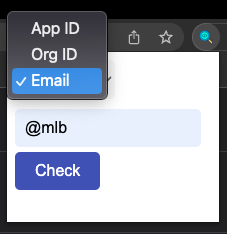
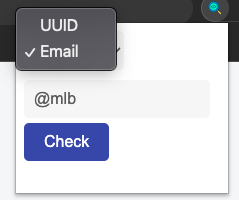
Updated to include new super user link / Fixed references and ReadMe for new link

diff --git a/src/background.js b/src/background.js
@@ -7,12 +7,7 @@ chrome.runtime.onInstalled.addListener(() => {
   console.log("Extension Installed");
   chrome.contextMenus.create({
     id: MENU.APP_AND_EMAIL,
-    title: 'OS App/Email "%s"',
-    contexts: ["selection"],
-  });
-  chrome.contextMenus.create({
-    id: MENU.ORG,
-    title: 'OS Org "%s"',
+    title: 'Search OS For "%s"',
     contexts: ["selection"],
   });
 });
@@ -26,8 +21,7 @@ chrome.contextMenus.onClicked.addListener((info, tab) => {
   const email_re = /@.{1,}/; //Anything with an @ sign and characters after;
   //BASE URLS
   const emailURL = "https://dashboard.onesignal.com/super-user?email=";
-  const uuidURL = "https://dashboard.onesignal.com/apps/";
-  const orgURL = "https://dashboard.onesignal.com/organizations/";
+  const uuidURL = "https://dashboard.onesignal.com/super-user/identify?search=";
   //VALIDATE REGEX WITH SELECTIONS (org and app are both uuid)
   const uuid_ok = uuid_re.exec(info.selectionText);
   const email_ok = email_re.exec(info.selectionText);
@@ -36,7 +30,7 @@ chrome.contextMenus.onClicked.addListener((info, tab) => {
   if (info.menuItemId === MENU.APP_AND_EMAIL) {
     console.log("start if");
     if (uuid_ok) {
-      console.log("Searching for app id on submit");
+      console.log("Searching for UUID on submit");
       const newUrl = `${uuidURL + info.selectionText}`;
       chrome.tabs.create({ url: newUrl });
     } else if (email_ok) {
@@ -48,17 +42,5 @@ chrome.contextMenus.onClicked.addListener((info, tab) => {
       console.log("Validation Error, please try again");
     }
   }
-
-  if (info.menuItemId === MENU.ORG) {
-    if (uuid_ok) {
-      console.log("Searching for org id on submit");
-      const newUrl = `${orgURL + info.selectionText}`;
-      chrome.tabs.create({ url: newUrl });
-    } else {
-      console.log(info);
-      console.log("Validation Error, please try again");
-    }
-  }
-
   console.log("Done!");
 });

diff --git a/src/popup.js b/src/popup.js
@@ -7,8 +7,7 @@ const input = document.querySelector("#id");
 const output = document.querySelector("#output");
 const select = document.querySelector(".selector");
 const emailURL = "https://dashboard.onesignal.com/super-user?email=";
-const uuidURL = "https://dashboard.onesignal.com/apps/";
-const orgURL = "https://dashboard.onesignal.com/organizations/";
+const uuidURL = "https://dashboard.onesignal.com/super-user/identify?search=";
 
 form.addEventListener("change", e => {
     console.log(e.currentTarget.value)
@@ -19,21 +18,13 @@ form.addEventListener("submit", (event) => {
   event.preventDefault();
   const uuid_ok = uuid_re.exec(input.value);
   const email_ok = email_re.exec(input.value);
-  if (select.value === "App ID") {
-    console.log("Searching for app id on submit");
+  if (select.value === "UUID") {
+    console.log("Searching for uuid on submit");
     output.textContent = uuid_ok
       ? `UUID Validated, one moment...`
       : `Invalid UUID!`;
     uuid_ok
       ? window.open(`${uuidURL}${input.value}`)
-      : console.log("Validation Error");
-  } else if (select.value === "Org ID") {
-    console.log("Searching for org id on submit");
-    output.textContent = uuid_ok
-      ? `UUID Validated, one moment...`
-      : `Invalid UUID!`;
-    uuid_ok
-      ? window.open(`${orgURL}${input.value}`)
       : console.log("Validation Error");
   } else {
     console.log("Searching for email on submit");

diff --git a/src/onesignalsuperuser.html b/src/onesignalsuperuser.html
@@ -5,8 +5,7 @@
   <body>
     <div class="input-container">
       <select class="selector">
-        <option>App ID</option>
-        <option>Org ID</option>
+        <option>UUID</option>
         <option>Email</option>
       </select>
       <div class="input-wrapper">

diff --git a/README.md b/README.md
@@ -6,19 +6,20 @@
 
 ## How to use this:
 - In your chrome extensions you can pin this to the tool bar for frequent use
-- Clicking the extension will allow you to enter in any App ID, Org ID, or email and search it using the super user search function on the OneSignal Dashboard (must be logged in as super user).
+- Clicking the extension will allow you to enter in any OneSignal associated UUID or email, and search it using the super user search function on the OneSignal Dashboard (must be logged in as super user).
 **Better yet **
-- When on chrome, you can highlight any text containing an email or uuid and search for that string as an app or an org (orgs currenlty unable to search via email).
+- When on chrome, you can highlight any text containing an email or uuid and search for that string.
 
-### How it works:
+ ### How it works:
 - When highlighting or adding a string into the extension form, it will check the string matches UUID/Email formats via regex.
+- Our Super User page will validate all incoming UUID's and Emails and determine what page should be shown to the super user.
 - UUID's should be grouped as 32 hexadecimal characters with four hyphens
 - Emails are more lenient in requiring only an '@' with some domain string following (w or w/o the "dot extension")
 > Examples:  
 ```
 ✅ XXXXXXXX-XXXX-XXXX-XXXX-XXXXXXXXXXXX
 ```
-![ReadMeImg/plus.png](ReadMeImg/plus.png)
+![ReadMeImg/plus.png](ReadMeImg/uuid.png)
 ```
 ✅ email@example.com
 ```
